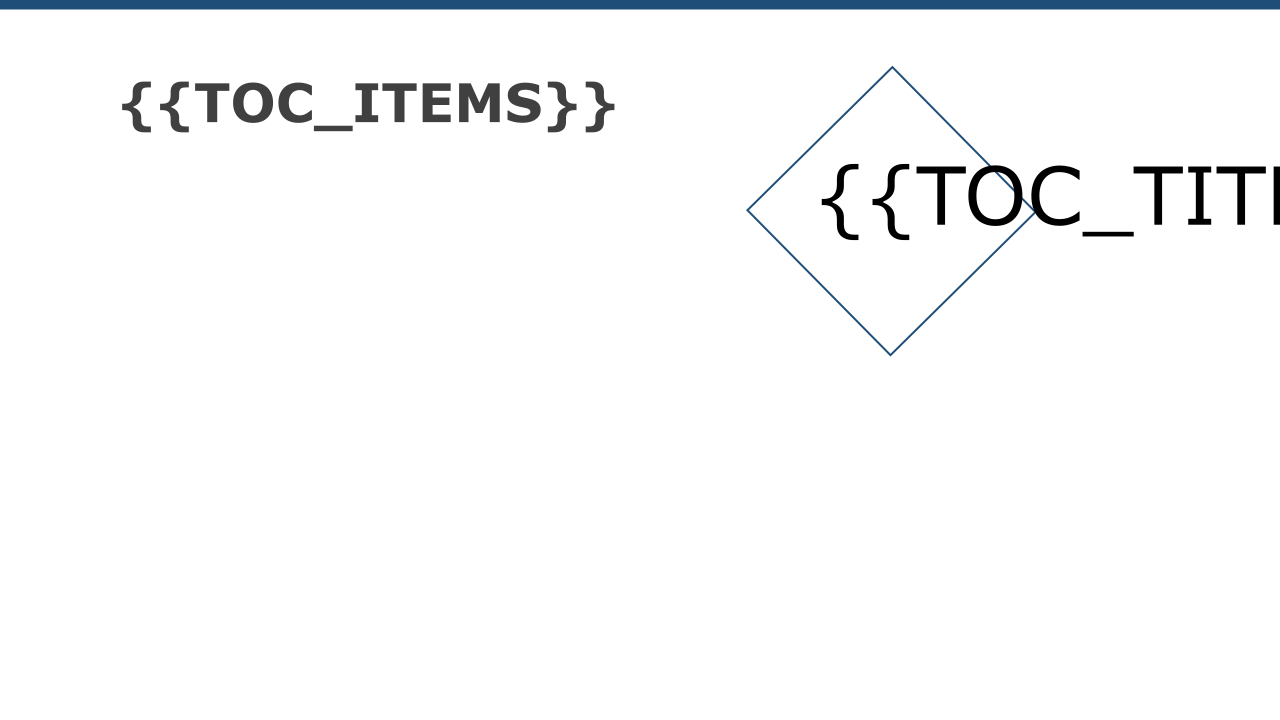
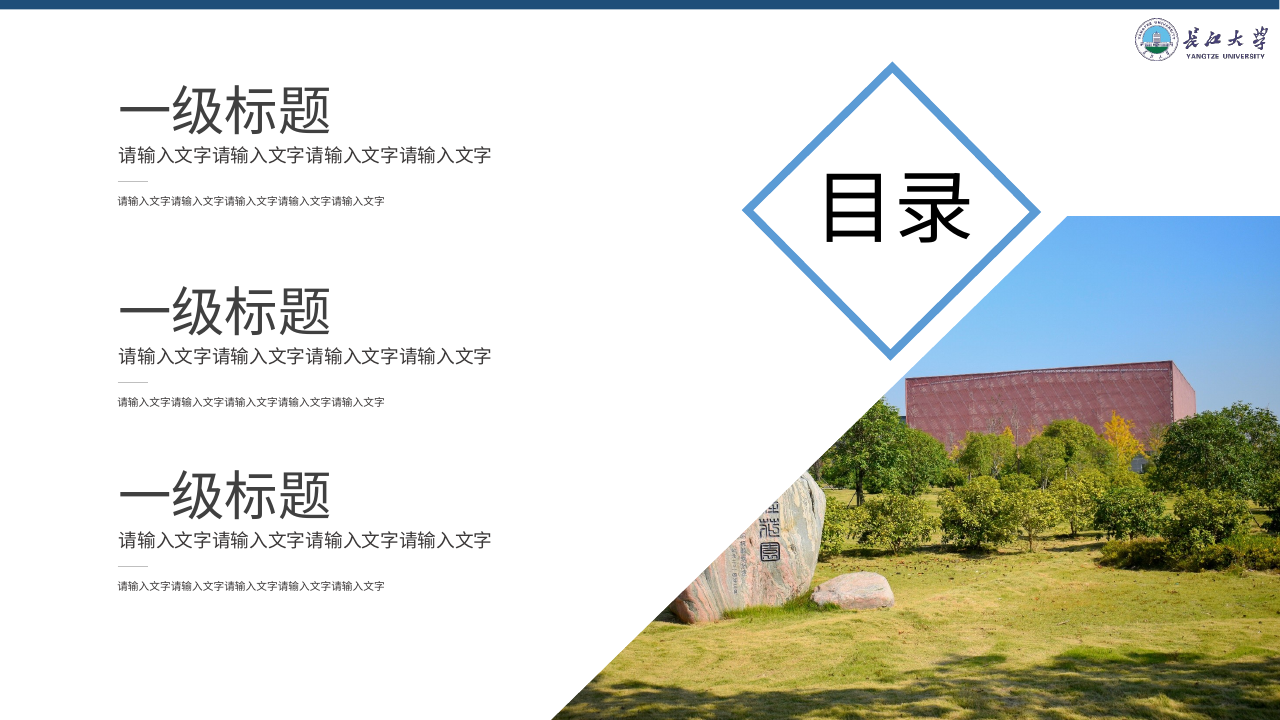
feat(decks): add yangtzeu-standard preview images and README
- Render 13 PNG previews from source PPT for yangtzeu-standard deck
- Fix duplicate preview images (05_content_image_large, 06_content_image_double)
- Add missing logo preview
- Create deck-level README mirroring yangtzeu-report structure

diff --git a/decks/yangtzeu-standard/README.md b/decks/yangtzeu-standard/README.md
@@ -1,0 +1,89 @@
+# yangtzeu_standard — 长江大学理工类院系标准蓝色学术汇报模板
+
+[ppt-master](https://github.com/hugohe3/ppt-master) Create Deck 模版，从真实 16:9 理工类院系标准蓝色 PPT 原样（mirror）提取的可复用 deck 模版。
+
+- **适用场景**：院系学术汇报、项目答辩、课题进展报告、年度工作总结等正式演示场景
+- **画布**：1280×720（16:9，`ppt169`）
+- **主题**：浅色白底；主色 `#1F4E79`（深蓝）+ `#5B9BD5`（中蓝）；微软雅黑
+- **结构**：1 个母版 + 11 个原生 PowerPoint 版式，落地为 13 页原型
+- **页面原型**：封面 / 目录 / 章节过渡 / 正文×5（双栏、大图、双图、编号、要点卡片×3）/ 图片集×2 / 结束页，共 13 页原型
+- **无个人信息**：所有文字区域均为占位符（`{{PAGE_TITLE}}`、`{{CONTENT_AREA}}` 等），由使用者填写；不含姓名、日期、作者等任何个人元数据
+
+## 目录结构
+
+```text
+templates/            # design_spec.md + 13 个 SVG 原型
+images/               # 母版与版式引用的位图资产（校徽 image4.png 等）
+icons/                # 版式引用的矢量图标资产（要点卡片图标等）
+previews/             # 13 个原型的 PNG 预览图（README 展示用，按源 PPT 验收）
+exports/              # 源 PPT 原档（理科院系16X9 蓝色 无动画版.ppt），预览验收基准
+```
+
+## 原型展示
+
+> 下表预览图由源 PPT（`exports/理科院系16X9 蓝色 无动画版.ppt`）逐页渲染而来，与源版式一一对应，作为模版保真度的验收基准。源 PPT 的页面顺序与下方原型排列不同（08b/08c 卡片变体在源中位于 09a/09b 图片集之后），此处按模版叙事顺序重新归并展示。
+
+<table>
+  <tr>
+    <td align="center"><img src="previews/01_cover.png"                width="280"><br><b>封面</b><br><sub>cover</sub></td>
+    <td align="center"><img src="previews/02_toc.png"                  width="280"><br><b>目录</b><br><sub>toc</sub></td>
+    <td align="center"><img src="previews/03_chapter.png"              width="280"><br><b>章节过渡</b><br><sub>chapter</sub></td>
+  </tr>
+  <tr>
+    <td align="center"><img src="previews/04_content_text.png"         width="280"><br><b>正文 · 双栏</b><br><sub>content_text</sub></td>
+    <td align="center"><img src="previews/05_content_image_large.png"  width="280"><br><b>正文 · 大图</b><br><sub>content_image_large</sub></td>
+    <td align="center"><img src="previews/06_content_image_double.png" width="280"><br><b>正文 · 双图</b><br><sub>content_image_double</sub></td>
+  </tr>
+  <tr>
+    <td align="center"><img src="previews/07_content_numbered.png"     width="280"><br><b>正文 · 编号列表</b><br><sub>content_numbered</sub></td>
+    <td align="center"><img src="previews/08a_content_cards.png"       width="280"><br><b>要点卡片 A</b><br><sub>content_cards</sub></td>
+    <td align="center"><img src="previews/08b_content_cards.png"       width="280"><br><b>要点卡片 B</b><br><sub>content_cards</sub></td>
+  </tr>
+  <tr>
+    <td align="center"><img src="previews/08c_content_cards.png"       width="280"><br><b>要点卡片 C</b><br><sub>content_cards</sub></td>
+    <td align="center"><img src="previews/09a_content_images.png"      width="280"><br><b>方形图片集</b><br><sub>content_images</sub></td>
+    <td align="center"><img src="previews/09b_content_images.png"      width="280"><br><b>竖形图片集</b><br><sub>content_images</sub></td>
+  </tr>
+  <tr>
+    <td align="center"><img src="previews/10_ending.png"               width="280"><br><b>结束页</b><br><sub>ending</sub></td>
+    <td></td>
+    <td></td>
+  </tr>
+</table>
+
+## 使用方式
+
+本模版无需安装脚本——clone 即用。在 ppt-master 对话中提供**显式工作空间根路径**（含 `templates/design_spec.md` 的目录）即可触发模版应用。
+
+### 方式一：Clone 到当前工作空间（推荐）
+
+将仓库 clone 到当前工作目录，然后在 ppt-master 对话中以相对路径引用：
+
+```bash
+git clone https://github.com/aqua2k1/ppt-master-yangtzeu-report
+```
+
+在 ppt-master 对话中：
+
+> 使用模版 ./ppt-master-yangtzeu-report/decks/yangtzeu-standard 生成一份关于〈主题〉的汇报 PPT
+
+用后可直接删除，不影响已生成的 PPTX。
+
+### 方式二：安装到 ppt-master 模版库
+
+如需将模版安装到 ppt-master 的集中模版库以便长期复用，在 ppt-master 对话中直接告知 AI 即可：
+
+> 将 https://github.com/aqua2k1/ppt-master-yangtzeu-report 安装到 ppt-master 的 decks 模版库
+
+AI 会自动定位 ppt-master 的 `templates/decks/` 目录、clone 仓库、补充画布配置（如需要）并完成注册。
+
+## 画布说明
+
+本模版原生画布即为 **1280×720**（16:9），与 ppt-master 内置 `ppt169` 格式一致，无需额外注册自定义画布。
+
+- **方式一使用时无需关心**——ppt-master 直接读取 SVG 的 viewBox 和 design_spec.md 中的声明。
+- **方式二安装时**同样无需额外配置——`ppt169` 为内置格式，开箱即用。
+
+## 授权与使用注意
+
+本模版包含长江大学校徽图案与院系标识，属于学校标识资产。**仅限长江大学校内学习、教学与学术交流使用**；请勿用于商业用途或暗示学校官方背书。发布与转发时请保留本说明。
